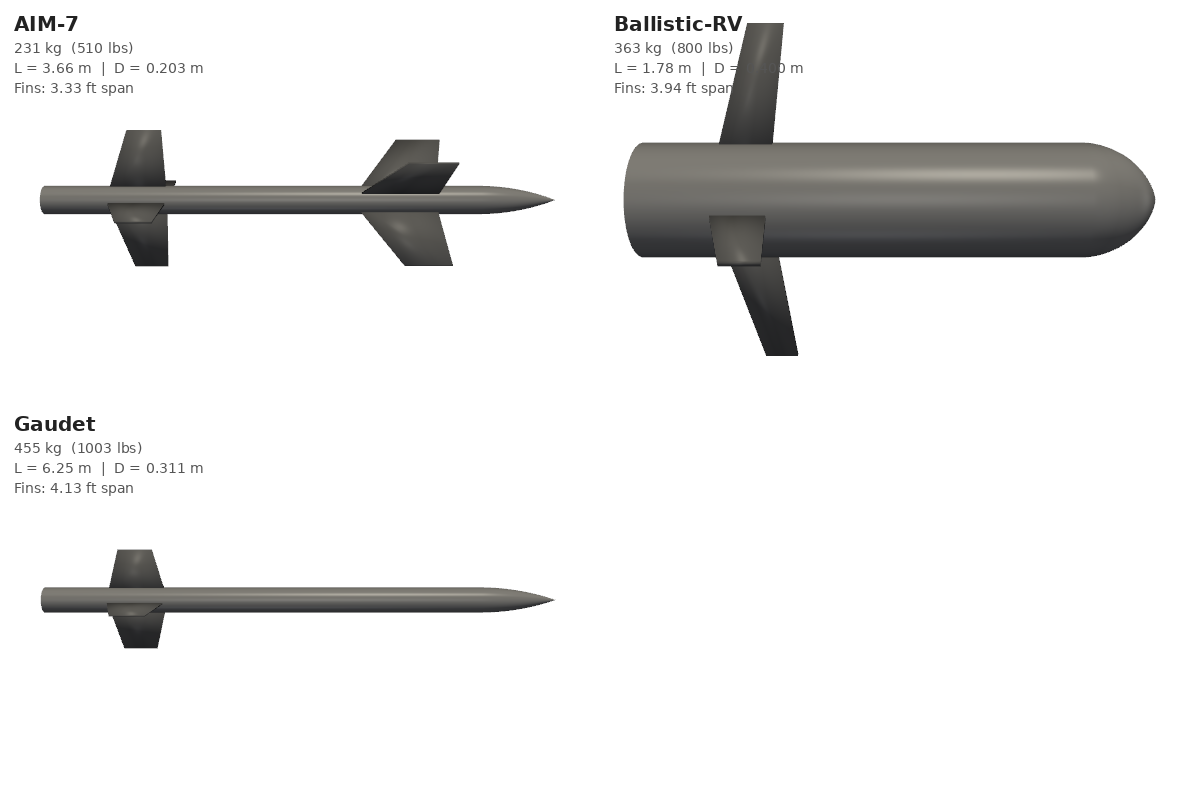
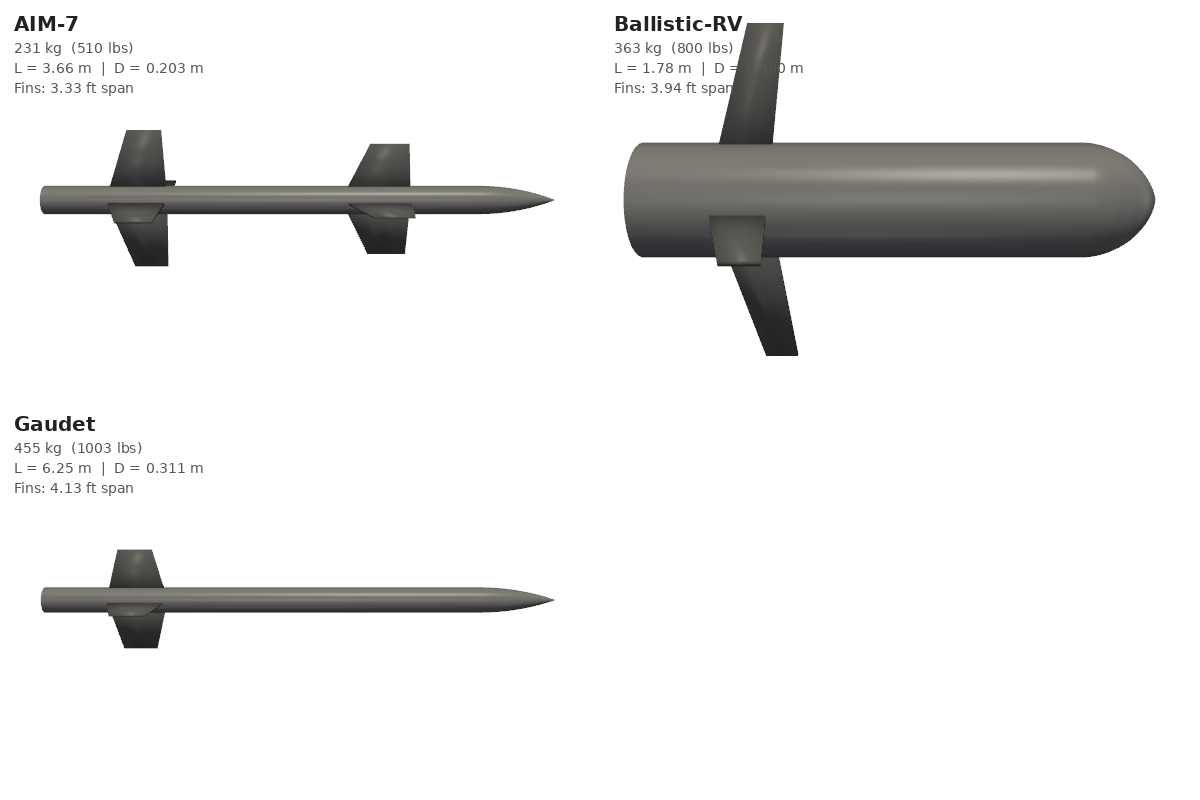
Fixed AIM-7 wing orientation to match real vehicle

Changed region(s): [[0.2775, 0.1562, 0.4008, 0.3438]]

diff --git a/render_vehicles.py b/render_vehicles.py
@@ -72,9 +72,9 @@ def build_mesh(L, R_b, CG, nose_len, fin_span, fin_chord, fin_start, tail_fin_co
         wing_chord = wings.get('chord_m', 0.5)
         wing_sweep = wings.get('sweep', 0.3)
         wing_root_x = CG - wing_pos
-        # Offset wings 45° from tail fins
+        wing_offset = wings.get('offset_deg', 45)
         fins += _make_fin_set(wing_chord, wing_span, wing_sweep, 0.006,
-                              wing_root_x, count=wing_count, offset_deg=45)
+                              wing_root_x, count=wing_count, offset_deg=wing_offset)
 
     return body, fins
 